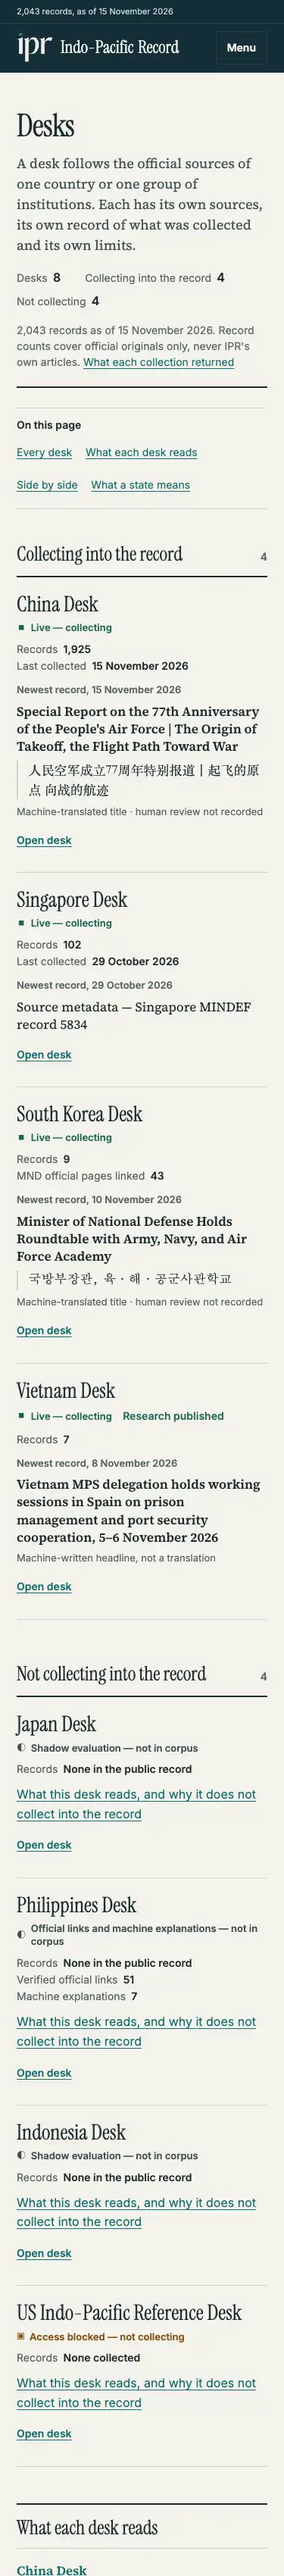
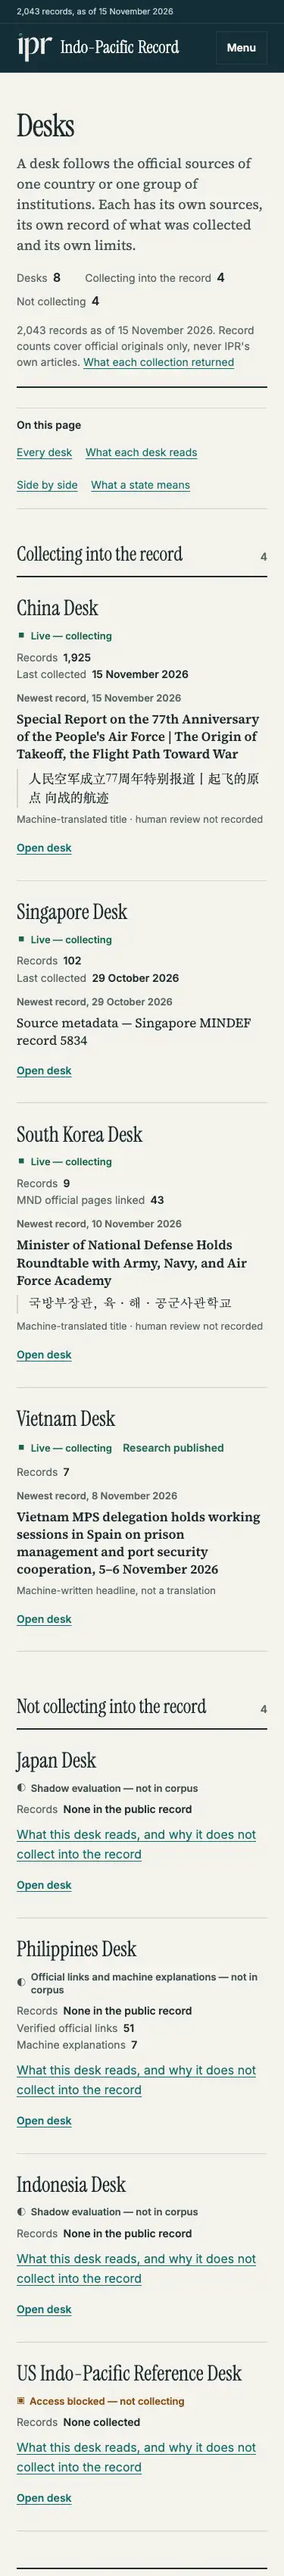
Act on the independent reviews
Editorial integrity:
- The Records page marks a row's English from generate_preview.title_kind(),
  the rule every other list uses, so a translated Vietnam record can never
  be called a machine-written headline there (no label changes on today's
  data: 247 published-in-English, 7 Vietnam headlines).
- Home note reads "N desks hold public records so far; most of the records
  come from Chinese sources." ("them" read as the desks).
- DECISION_LOG: the Korea headroom figure states it is the HTML-plus-CSS
  delivery budget and gives this build's 118,586 bytes; the unmeasured
  "1,700px shorter" claim is removed.

Release QA:
- The new standalone desk links (home desk column, Desks directory names)
  are at least 40px tall.

Evidence screenshots of home and Desks recaptured from this build.

diff --git a/site/preview/templates/home.html b/site/preview/templates/home.html
@@ -53,7 +53,7 @@
   <div class="home-head"><h2 id="latest-title">Newest from each desk</h2><a href="archive.html">All {{ corpus_total | count }} records</a></div>
   {{ desk_front(home_desks.rows, lead=true) }}
   {% set china_front = home_desks.rows | selectattr('desk.slug', 'equalto', 'china') | first | default(none) %}
-  <p class="home-desks-note">{{ home_desks.rows | length }} desks hold public records so far{% if china_front and china_front.desk.record_count * 2 > corpus_total %}, most of them from Chinese sources{% endif %}. Coverage is selective: <a href="coverage.html">scope and coverage</a>.</p>
+  <p class="home-desks-note">{{ home_desks.rows | length }} desks hold public records so far{% if china_front and china_front.desk.record_count * 2 > corpus_total %}; most of the records come from Chinese sources{% endif %}. Coverage is selective: <a href="coverage.html">scope and coverage</a>.</p>
   {% if home_desks.empty %}
   <p class="home-desks-empty">No public records yet: {% for d in home_desks.empty %}<a href="{{ d.route }}">{{ d.name }}</a> <span>({{ d.status_label }})</span>{{ ', ' if not loop.last else '.' }}{% endfor %} <a href="desks.html">All desks</a></p>
   {% endif %}

diff --git a/site/preview/home.css b/site/preview/home.css
@@ -57,7 +57,7 @@ h2.specimen-original[lang^=zh]{font-family:var(--zh-serif)}h2.specimen-original[
 /* Newest from each desk: the desk's name stands where a dated list puts the
    day numeral; the date moves into the row's meta line. */
 .records-desks .desk-cell{padding-top:1.05rem}
-.records-desks .desk-cell a{display:block;font:400 1.75rem/1.05 var(--display);letter-spacing:-.01em;color:var(--ink);text-decoration:none}
+.records-desks .desk-cell a{display:block;min-height:40px;font:400 1.75rem/1.05 var(--display);letter-spacing:-.01em;color:var(--ink);text-decoration:none}
 .records-desks .desk-cell a:hover{text-decoration:underline;text-decoration-thickness:1px}
 .records-desks .desk-cell span{display:block;margin-top:.45rem;font-size:.8125rem;color:var(--muted);font-variant-numeric:tabular-nums lining-nums}
 .records-desks .row-side time{color:var(--ink-2)}

diff --git a/site/preview/desk-map.css b/site/preview/desk-map.css
@@ -12,7 +12,7 @@
 .desks-group span{font:600 var(--step-meta)/1 var(--sans);color:var(--muted);font-variant-numeric:tabular-nums lining-nums}
 .deskmap-register>.desk{display:grid;grid-template-columns:minmax(0,17rem) minmax(0,1fr);gap:.6rem 2.2rem;padding:1.3rem 0 1.4rem;border-bottom:1px solid var(--rule);scroll-margin-top:1rem}
 .deskmap-register .desk h3{margin:0;padding:0;border:0;font:400 2rem/1.05 var(--display)}
-.deskmap-register .desk h3 a{color:var(--ink);text-decoration:none}
+.deskmap-register .desk h3 a{display:inline-flex;align-items:center;min-height:40px;color:var(--ink);text-decoration:none}
 .deskmap-register .desk h3 a:hover{text-decoration:underline;text-decoration-thickness:1px}
 .deskmap-marks{display:flex;flex-wrap:wrap;gap:.2rem .9rem;margin:.5rem 0 0;font-size:var(--step-meta)}
 .desk-pub{color:var(--editorial-ink);font-weight:600}

diff --git a/core/archive_research.py b/core/archive_research.py
@@ -296,8 +296,11 @@ def with_cited(records, cited):
 
 def build_index(db_path, compact, *, cite_record, processing_notes,
                 official_groups=(), originals=(), english_publications=(), analyses=(),
-                machine_records=(), cited=()):
+                machine_records=(), cited=(), title_kinds=None):
     """One build's selected DB + current public projection/loaders, fail closed.
+
+    `title_kinds` maps a corpus record id to generate_preview.title_kind(), so
+    the Records page marks a row's English exactly as every other list does.
 
     Source URLs are read solely for retirement checks on archive rows, never
     serialized for them. Counts and digests describe public data only.
@@ -326,14 +329,14 @@ def build_index(db_path, compact, *, cite_record, processing_notes,
             raise ValueError('archive_bulk_text_prohibited')
     return {'schema': SCHEMA, 'snapshot': compact['snapshot'],
             'archive_sha256': digest(encoded(compact)), 'digest': digest(encoded(records)),
-            'records': records, 'holds': {r['id']: holds[r['id']] for r in records if r['id'] in holds}, 'display': display_records(compact, records),
+            'records': records, 'holds': {r['id']: holds[r['id']] for r in records if r['id'] in holds}, 'display': display_records(compact, records, title_kinds),
             'days': {day: [int(day[8:10]), calendar.month_name[int(day[5:7])] + ' ' + day[:4],
                            calendar.day_name[date.fromisoformat(day).weekday()]]
                      for day in sorted({r['date'] for r in records if r['date']})}, 'retirement_ledger_entries': count,
             'excluded': dict(sorted(excluded.items()))}
 
 
-def display_records(compact, records):
+def display_records(compact, records, title_kinds=None):
     """Reader labels and closed facets from the same six-field public projection.
 
     Kept outside the export records. This avoids a second set of browser-side
@@ -365,10 +368,15 @@ def display_records(compact, records):
             trail_label='In an analysis source trail' if ident in compact['trail_ids'] else None)
         # The Records page states once, above the list, that English titles
         # are machine translations; only rows whose English is something
-        # else carry a mark (generate_preview.title_kind uses the same rule).
-        if english and lang.get('code') == 'en' and source['code'] != 'sg_mindef_releases':
+        # else carry a mark. The kind comes from generate_preview.title_kind(),
+        # the rule every other list uses; without it, the stored language
+        # alone decides, and no Vietnam row is called a headline unverified.
+        kind = (title_kinds or {}).get(ident)
+        if kind is None and english and lang.get('code') == 'en' and source['code'] != 'sg_mindef_releases':
+            kind = 'published_english'
+        if kind == 'published_english':
             result[r['id']]['title_note'] = 'Title published in English'
-        elif english and source['code'].startswith('vn_'):
+        elif kind == 'machine_headline':
             result[r['id']]['title_note'] = 'Machine-written headline, not a translation'
     return result
 

diff --git a/site/preview/generate_preview.py b/site/preview/generate_preview.py
@@ -3630,7 +3630,8 @@ def build(out_dir: Path, title: str, db_path: Path,
         official_groups=archive_official_groups, originals=korea_published_original_rows,
         machine_records=machine_archive_rows(machine_records),
         english_publications=korea_english_publication_rows, analyses=public_analyses,
-        cited=cited_archive_rows(cited_records))
+        cited=cited_archive_rows(cited_records),
+        title_kinds={rec["id"]: rec["title_kind"] for rec in data["corpus"]})
     (out_dir / "archive-research-index.json").write_bytes(archive_encoded(research_index))
     written.append("archive-research-index.json")
     ctx["archive_research_digest"] = archive_digest(archive_encoded(research_index))

diff --git a/tests/test_research_atlas_hierarchy.py b/tests/test_research_atlas_hierarchy.py
@@ -91,7 +91,7 @@ class ResearchAtlasHierarchy(unittest.TestCase):
         self.assertIn("Coverage is selective.",
                       " ".join(soup.select_one("footer.site .footer-standing").get_text(" ").split()))
         note = " ".join(home.select_one(".home-desks-note").get_text(" ").split())
-        self.assertIn("most of them from Chinese sources", note)
+        self.assertIn("most of the records come from Chinese sources", note)
         shown = home.select(".records-desks > .records-day")
         public_desks = [d for d in gp.PublicView(gp.TRACKED_DB).desk_directory() if d.record_count]
         self.assertEqual([li.select_one(".desk-cell > a").get("href") for li in shown],

diff --git a/tests/test_preview_prototype.py b/tests/test_preview_prototype.py
@@ -523,8 +523,8 @@ class TestNoFabricatedCoverage(PreviewCase):
         # measured here rather than taken on trust.
         note = soup.select_one('.home-desks-note')
         self.assertIn(
-            '%d desks hold public records so far, most of them from Chinese '
-            'sources.' % len(held), ' '.join(note.get_text().split()))
+            '%d desks hold public records so far; most of the records come '
+            'from Chinese sources.' % len(held), ' '.join(note.get_text().split()))
         self.assertEqual(note.a['href'], 'coverage.html')
         self.assertGreater(desks.get('china').record_count * 2,
                            sum(d.record_count for d in held))

diff --git a/DECISION_LOG.md b/DECISION_LOG.md
@@ -25,13 +25,13 @@ not edited here.
 search), one section, "Newest from each desk", shows the first row of each
 public-record desk's own page (China, Singapore, South Korea, Vietnam, read
 from data), the desk name where a dated list puts the day, a line saying how
-many desks hold public records and (computed from the counts) that most come
-from Chinese sources, with a link to Coverage, then one quiet line naming the
+many desks hold public records and (computed from the counts) that most of
+the records come from Chinese sources, with a link to Coverage, then one quiet line naming the
 desks with no public records and their registry state. The
 separate home Desks section is removed. The rule is deterministic
 (`desk_front_rows`), not editorial selection. On today's data the opening
 record and the China row are the same record; that is the rule working, not
-a choice. The mobile home page is about 1,700px shorter.
+a choice.
 
 **Stored-summary sentence.** The home opening, the home rows and the five
 newest rows on each desk page show the first complete sentence of the
@@ -42,8 +42,9 @@ It reads the shaped record after source holds apply, so MINDEF (summary
 withheld) never carries one. Korea MND and Vietnam records already publish
 these summaries on their record pages. Not on the Records page, week pages or
 the search index. **Korea page headroom:** the Korea desk page carries no
-summary lines; with them it kept about 415 bytes of its 120,000-byte budget
-while its link lists grow daily (measured 118,111 bytes without them).
+summary lines. Its delivery budget (HTML plus CSS, 120,000 bytes) left about
+415 bytes with them while its link lists grow daily; without them this build
+measures 118,586 bytes (`verify_frontend_delivery`).
 
 **Scaffolding language.** Lists state once, at the head of the English
 column, that English titles are machine translations with human review not

diff --git a/docs/DESIGN_SYSTEM.md b/docs/DESIGN_SYSTEM.md
@@ -81,7 +81,7 @@ recorded". Singapore metadata-only rows are set quieter (`record-row--metadata`)
 text), then "Newest from each desk": the first row of each public-record
 desk's own page (`desk_front_rows`), the desk name in the left column and the
 date in the meta line; a line saying how many desks hold public records and,
-measured from the counts, that most come from Chinese sources, with a link to
+measured from the counts, that most of the records come from Chinese sources, with a link to
 Coverage; one line naming the desks with no public records and their registry
 state; then Briefs and the three kinds of text.
 
